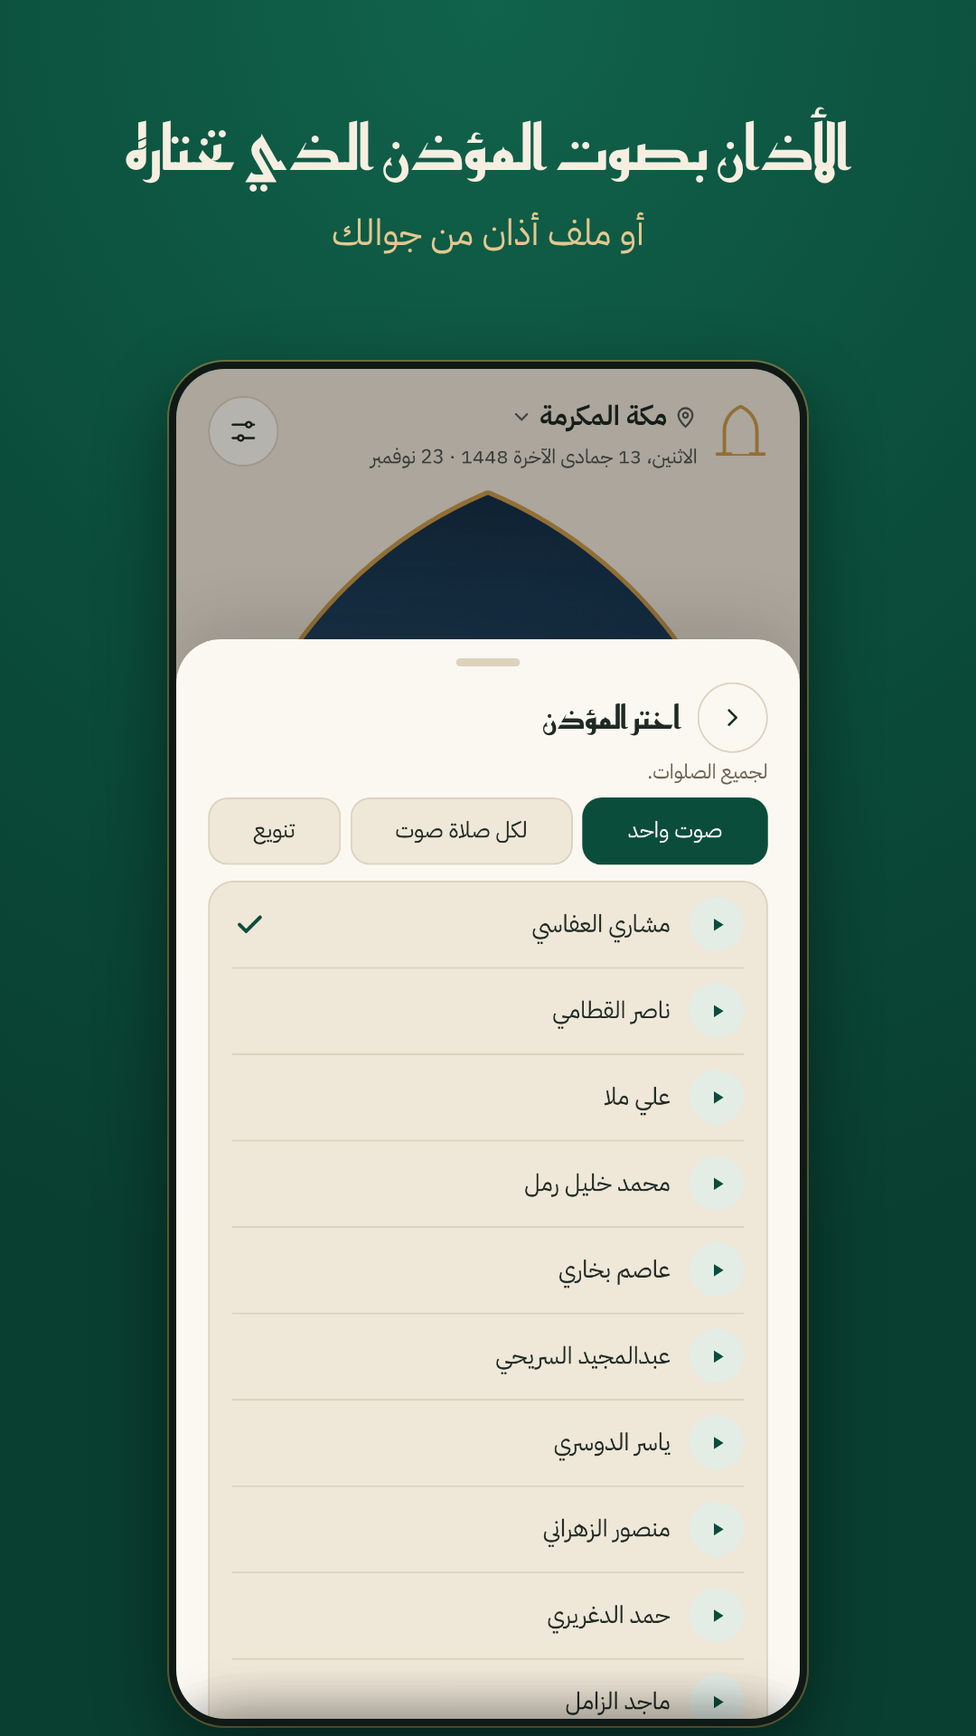
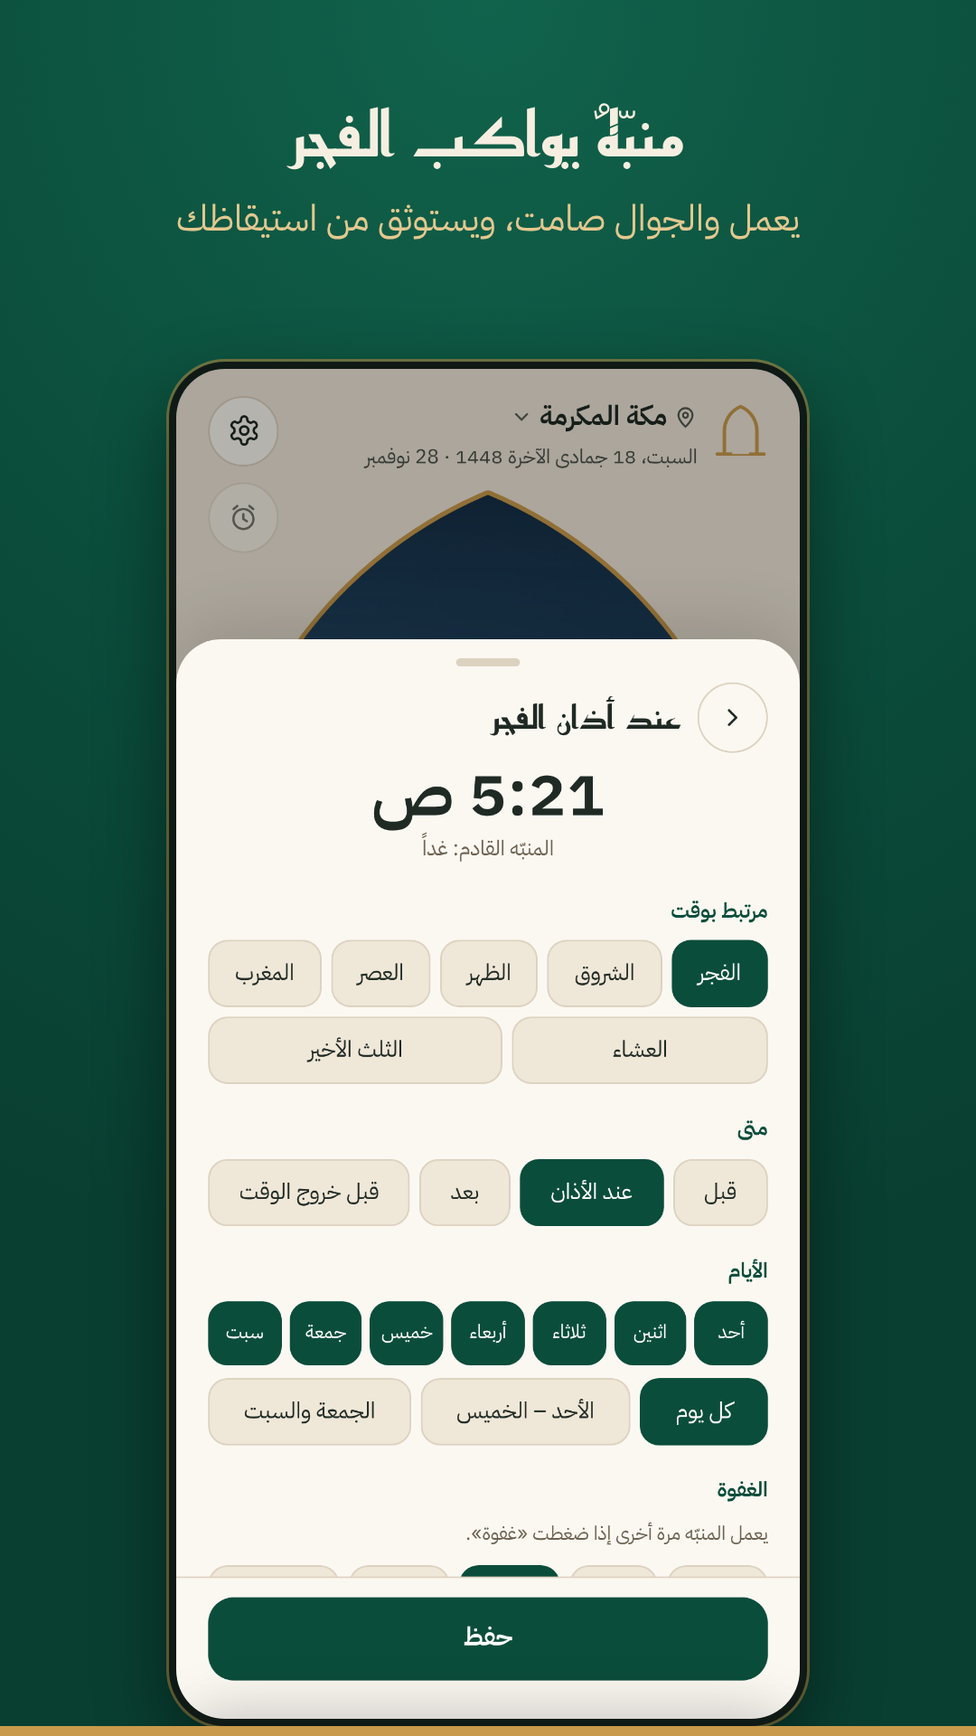
Store pictures for 1.0, and the App Store page from the API (tools/asc, asc.yml) [skip ci]

diff --git a/tools/asc/publish.py b/tools/asc/publish.py
@@ -1,0 +1,262 @@
+#!/usr/bin/env python3
+"""Fills the App Store page of «الفجر الصادق» through the App Store Connect API (run by .github/workflows/asc.yml).
+
+Texts come from texts.py, the iPhone 6.9" pictures from store/ios/iphone69-*.png. Each step stands alone: a failed step is
+reported and the rest still run. With SUBMIT=1 it also sends the version for review (App Privacy and the price are set
+on the website, since the API has no way to set App Privacy).
+"""
+import glob, hashlib, json, os, sys, time, textwrap, re, urllib.request, urllib.error
+import jwt
+
+sys.path.insert(0, os.path.dirname(os.path.abspath(__file__)))
+from texts import AR, EN, REVIEW_NOTES
+
+APP = os.environ.get('ASC_APP_ID', '6837875909')
+API = 'https://api.appstoreconnect.apple.com'
+SITE = 'https://ontime-prayer.pages.dev'
+ROOT = os.path.abspath(os.path.join(os.path.dirname(__file__), '..', '..'))
+KID, ISS = os.environ['ASC_KEY_ID'], os.environ['ASC_ISSUER_ID']
+_b = ''.join(re.findall(r'[A-Za-z0-9+/=]+', re.sub(r'-----[^-]+-----', '', os.environ['ASC_KEY_P8'])))
+KEY = '-----BEGIN PRIVATE KEY-----\n' + '\n'.join(textwrap.wrap(_b, 64)) + '\n-----END PRIVATE KEY-----\n'
+
+_tok = [None, 0]
+def tok():
+    if time.time() > _tok[1] - 60:
+        now = int(time.time())
+        _tok[0] = jwt.encode({'iss': ISS, 'iat': now, 'exp': now + 1100, 'aud': 'appstoreconnect-v1'}, KEY,
+                             algorithm='ES256', headers={'kid': KID, 'typ': 'JWT'})
+        _tok[1] = now + 1100
+    return _tok[0]
+
+class ApiError(Exception):
+    def __init__(s, code, body):
+        s.code, s.body = code, body
+        try: s.errs = json.loads(body).get('errors', [])
+        except Exception: s.errs = []
+        super().__init__(f'{code}: ' + ('; '.join(f"{e.get('code')} {e.get('detail', '')}" for e in s.errs) or body[:400]))
+
+def call(method, path, body=None):
+    url = path if path.startswith('http') else API + path
+    data = json.dumps(body).encode() if body is not None else None
+    req = urllib.request.Request(url, data=data, method=method,
+                                 headers={'Authorization': 'Bearer ' + tok(), 'Content-Type': 'application/json'})
+    try:
+        with urllib.request.urlopen(req, timeout=120) as r:
+            t = r.read()
+            return json.loads(t) if t else {}
+    except urllib.error.HTTPError as e:
+        raise ApiError(e.code, e.read().decode('utf-8', 'replace'))
+
+def rel(typ, id_): return {'data': {'type': typ, 'id': id_}}
+
+REPORT, ERRORS = [], []
+def step(name):
+    def wrap(fn):
+        def run(*a, **k):
+            try:
+                out = fn(*a, **k)
+                REPORT.append(f'✓ {name}' + (f': {out}' if out else ''))
+                print(REPORT[-1], flush=True)
+                return out
+            except Exception as e:
+                ERRORS.append(f'✗ {name}: {e}')
+                print(ERRORS[-1], flush=True)
+        return run
+    return wrap
+
+def state(a): return a.get('appVersionState') or a.get('appStoreState') or a.get('state')
+
+# ---------- the version, the app info ----------
+def version():
+    vs = call('GET', f'/v1/apps/{APP}/appStoreVersions?filter[platform]=IOS&limit=20')['data']
+    edit = [v for v in vs if state(v['attributes']) in
+            ('PREPARE_FOR_SUBMISSION', 'DEVELOPER_REJECTED', 'REJECTED', 'METADATA_REJECTED', 'INVALID_BINARY')]
+    v = (edit or vs)[0]
+    print('version', v['attributes']['versionString'], state(v['attributes']), v['id'])
+    return v
+
+def app_info():
+    infos = call('GET', f'/v1/apps/{APP}/appInfos')['data']
+    live = ('READY_FOR_DISTRIBUTION', 'READY_FOR_SALE', 'REPLACED_WITH_NEW_INFO')
+    i = next((x for x in infos if state(x['attributes']) not in live), infos[0])
+    print('appInfo', state(i['attributes']), i['id'])
+    return i
+
+@step('the version: copyright, release after approval')
+def set_version(vid):
+    call('PATCH', f'/v1/appStoreVersions/{vid}', {'data': {'type': 'appStoreVersions', 'id': vid, 'attributes': {
+        'copyright': '2026 Ibrahim Alzahrani', 'releaseType': 'AFTER_APPROVAL'}}})
+
+def put_loc(kind, parent_rel, parent_id, existing, locale, attrs):
+    """PATCH the locale's localization, or create it."""
+    cur = next((x for x in existing if x['attributes']['locale'] == locale), None)
+    if cur:
+        call('PATCH', f'/v1/{kind}/{cur["id"]}', {'data': {'type': kind, 'id': cur['id'], 'attributes': attrs}})
+        return cur['id'], 'updated'
+    parent_type = {'appInfo': 'appInfos', 'appStoreVersion': 'appStoreVersions'}[parent_rel]
+    r = call('POST', f'/v1/{kind}', {'data': {'type': kind, 'attributes': dict(attrs, locale=locale),
+                                               'relationships': {parent_rel: rel(parent_type, parent_id)}}})
+    return r['data']['id'], 'created'
+
+@step('name, subtitle, privacy link (Arabic)')
+def info_ar(iid, locs):
+    return put_loc('appInfoLocalizations', 'appInfo', iid, locs, 'ar-SA',
+                   {'name': AR['name'], 'subtitle': AR['subtitle'], 'privacyPolicyUrl': SITE + '/privacy'})[1]
+
+@step('name, subtitle, privacy link (English)')
+def info_en(iid, locs):
+    attrs = {'name': EN['name'], 'subtitle': EN['subtitle'], 'privacyPolicyUrl': SITE + '/privacy'}
+    try:
+        return put_loc('appInfoLocalizations', 'appInfo', iid, locs, 'en-US', attrs)[1]
+    except ApiError as e:
+        if 'name' not in str(e).lower(): raise
+        attrs['name'] = EN['name'] + ': Prayer Times'          # the short name is taken
+        return put_loc('appInfoLocalizations', 'appInfo', iid, locs, 'en-US', attrs)[1] + ' as ' + attrs['name']
+
+def ver_attrs(L):
+    return {'description': L['description'], 'keywords': L['keywords'], 'promotionalText': L['promo'],
+            'supportUrl': SITE, 'marketingUrl': SITE}
+
+@step('description, keywords, promotional text, links (Arabic)')
+def ver_ar(vid, locs):
+    r = put_loc('appStoreVersionLocalizations', 'appStoreVersion', vid, locs, 'ar-SA', ver_attrs(AR))
+    LOC['ar'] = r[0]
+    return r[1]
+
+@step('description, keywords, promotional text, links (English)')
+def ver_en(vid, locs):
+    r = put_loc('appStoreVersionLocalizations', 'appStoreVersion', vid, locs, 'en-US', ver_attrs(EN))
+    LOC['en'] = r[0]
+    return r[1]
+LOC = {}
+
+@step('categories: Lifestyle, Reference')
+def categories(iid):
+    call('PATCH', f'/v1/appInfos/{iid}', {'data': {'type': 'appInfos', 'id': iid, 'relationships': {
+        'primaryCategory': rel('appCategories', 'LIFESTYLE'), 'secondaryCategory': rel('appCategories', 'REFERENCE')}}})
+
+AGE = dict(
+    alcoholTobaccoOrDrugUseOrReferences='NONE', contests='NONE', gamblingSimulated='NONE', gunsOrOtherWeapons='NONE',
+    horrorOrFearThemes='NONE', matureOrSuggestiveThemes='NONE', medicalOrTreatmentInformation='NONE',
+    profanityOrCrudeHumor='NONE', sexualContentGraphicAndNudity='NONE', sexualContentOrNudity='NONE',
+    violenceCartoonOrFantasy='NONE', violenceRealistic='NONE', violenceRealisticProlongedGraphicOrSadistic='NONE',
+    advertising=False, ageAssurance=False, gambling=False, healthOrWellnessTopics=False, lootBox=False,
+    messagingAndChat=False, parentalControls=False, unrestrictedWebAccess=False, userGeneratedContent=False,
+)
+
+@step('age rating: none of the topics (4+)')
+def age(iid):
+    d = call('GET', f'/v1/appInfos/{iid}/ageRatingDeclaration')['data']
+    attrs = dict(AGE)
+    for _ in range(12):                                         # drop any field this API version doesn't know
+        try:
+            call('PATCH', f'/v1/ageRatingDeclarations/{d["id"]}',
+                 {'data': {'type': 'ageRatingDeclarations', 'id': d['id'], 'attributes': attrs}})
+            return f'{len(attrs)} answers'
+        except ApiError as e:
+            bad = [x.get('source', {}).get('pointer', '').rsplit('/', 1)[-1] for x in e.errs]
+            bad = [b for b in bad if b in attrs]
+            if not bad: raise
+            for b in bad: attrs.pop(b)
+    raise RuntimeError('age rating: too many retries')
+
+@step('review contact and notes')
+def review(vid):
+    attrs = {'contactFirstName': 'Ibrahim', 'contactLastName': 'Alzahrani', 'contactPhone': '+966549855011',
+             'contactEmail': 'itqan1.dev@gmail.com', 'demoAccountRequired': False, 'notes': REVIEW_NOTES}
+    try:
+        cur = call('GET', f'/v1/appStoreVersions/{vid}/appStoreReviewDetail').get('data')
+    except ApiError as e:
+        if e.code != 404: raise
+        cur = None
+    if cur:
+        call('PATCH', f'/v1/appStoreReviewDetails/{cur["id"]}',
+             {'data': {'type': 'appStoreReviewDetails', 'id': cur['id'], 'attributes': attrs}})
+        return 'updated'
+    call('POST', '/v1/appStoreReviewDetails', {'data': {'type': 'appStoreReviewDetails', 'attributes': attrs,
+                                                         'relationships': {'appStoreVersion': rel('appStoreVersions', vid)}}})
+    return 'created'
+
+@step('build')
+def build(vid, vstr):
+    for _ in range(40):
+        bs = call('GET', f'/v1/builds?filter[app]={APP}&filter[preReleaseVersion.version]={vstr}'
+                         f'&sort=-uploadedDate&limit=10')['data']
+        ok = [b for b in bs if b['attributes']['processingState'] == 'VALID' and not b['attributes'].get('expired')]
+        if ok:
+            b = ok[0]
+            call('PATCH', f'/v1/appStoreVersions/{vid}/relationships/build', rel('builds', b['id']))
+            return f"{vstr} ({b['attributes']['version']})"
+        if not any(b['attributes']['processingState'] == 'PROCESSING' for b in bs):
+            raise RuntimeError('no processed build of ' + vstr + ': ' +
+                               ', '.join(f"{b['attributes']['version']} {b['attributes']['processingState']}" for b in bs))
+        time.sleep(30)
+    raise RuntimeError('the build is still processing')
+
+@step('iPhone 6.9" screenshots (Arabic)')
+def screenshots(lid):
+    files = sorted(glob.glob(os.path.join(ROOT, 'store/ios/iphone69-*.png')))
+    if not files: raise RuntimeError('no store/ios/iphone69-*.png')
+    sets = call('GET', f'/v1/appStoreVersionLocalizations/{lid}/appScreenshotSets')['data']
+    s = next((x for x in sets if x['attributes']['screenshotDisplayType'] == 'APP_IPHONE_67'), None)
+    if s:
+        for old in call('GET', f'/v1/appScreenshotSets/{s["id"]}/appScreenshots')['data']:
+            call('DELETE', f'/v1/appScreenshots/{old["id"]}')
+    else:
+        s = call('POST', '/v1/appScreenshotSets', {'data': {'type': 'appScreenshotSets',
+              'attributes': {'screenshotDisplayType': 'APP_IPHONE_67'},
+              'relationships': {'appStoreVersionLocalization': rel('appStoreVersionLocalizations', lid)}}})['data']
+    ids = []
+    for f in files:
+        data = open(f, 'rb').read()
+        sh = call('POST', '/v1/appScreenshots', {'data': {'type': 'appScreenshots',
+              'attributes': {'fileName': os.path.basename(f), 'fileSize': len(data)},
+              'relationships': {'appScreenshotSet': rel('appScreenshotSets', s['id'])}}})['data']
+        for op in sh['attributes']['uploadOperations']:
+            part = data[op['offset']:op['offset'] + op['length']]
+            req = urllib.request.Request(op['url'], data=part, method=op['method'],
+                                         headers={h['name']: h['value'] for h in op.get('requestHeaders', [])})
+            urllib.request.urlopen(req, timeout=300).read()
+        call('PATCH', f'/v1/appScreenshots/{sh["id"]}', {'data': {'type': 'appScreenshots', 'id': sh['id'],
+              'attributes': {'uploaded': True, 'sourceFileChecksum': hashlib.md5(data).hexdigest()}}})
+        ids.append(sh['id'])
+    for _ in range(40):
+        st = [call('GET', f'/v1/appScreenshots/{i}')['data']['attributes'].get('assetDeliveryState') or {} for i in ids]
+        bad = [x for x in st if x.get('state') == 'FAILED']
+        if bad: raise RuntimeError('a picture failed: ' + json.dumps(bad[0].get('errors'))[:300])
+        if all(x.get('state') == 'COMPLETE' for x in st): return f'{len(ids)} pictures'
+        time.sleep(10)
+    return f'{len(ids)} pictures uploaded, still processing'
+
+@step('submitted for review')
+def submit(vid):
+    subs = call('GET', f'/v1/reviewSubmissions?filter[app]={APP}&filter[platform]=IOS'
+                       '&filter[state]=READY_FOR_REVIEW,UNRESOLVED_ISSUES')['data']
+    sub = subs[0] if subs else call('POST', '/v1/reviewSubmissions', {'data': {'type': 'reviewSubmissions',
+          'attributes': {'platform': 'IOS'}, 'relationships': {'app': rel('apps', APP)}}})['data']
+    try:
+        call('POST', '/v1/reviewSubmissionItems', {'data': {'type': 'reviewSubmissionItems', 'relationships': {
+            'reviewSubmission': rel('reviewSubmissions', sub['id']), 'appStoreVersion': rel('appStoreVersions', vid)}}})
+    except ApiError as e:
+        if e.code != 409: raise
+        print('item already there:', e)
+    call('PATCH', f'/v1/reviewSubmissions/{sub["id"]}',
+         {'data': {'type': 'reviewSubmissions', 'id': sub['id'], 'attributes': {'submitted': True}}})
+
+def main():
+    v = version(); vid, vstr = v['id'], v['attributes']['versionString']
+    i = app_info(); iid = i['id']
+    set_version(vid)
+    ilocs = call('GET', f'/v1/appInfos/{iid}/appInfoLocalizations')['data']
+    info_ar(iid, ilocs); info_en(iid, ilocs)
+    vlocs = call('GET', f'/v1/appStoreVersions/{vid}/appStoreVersionLocalizations')['data']
+    ver_ar(vid, vlocs); ver_en(vid, vlocs)
+    categories(iid); age(iid); review(vid)
+    if LOC.get('ar'): screenshots(LOC['ar'])
+    build(vid, vstr)
+    if os.environ.get('SUBMIT') == '1' and not ERRORS: submit(vid)
+    print('\n==== summary ====\n' + '\n'.join(REPORT + ERRORS))
+    sys.exit(1 if ERRORS else 0)
+
+if __name__ == '__main__':
+    main()

diff --git a/tools/asc/texts.py b/tools/asc/texts.py
@@ -1,0 +1,92 @@
+# The App Store texts (asc.py), Arabic first.
+AR = dict(
+    name='الفجر الصادق',
+    subtitle='صلاتك على وقتها',
+    promo='مواقيت أم القرى دقيقةً بدقيقة، وتذكيرٌ قبل خروج الوقت، ومنبّهٌ يواكب الفجر، وسماءٌ حيّة، وويدجت تُخصّصها كما تشاء. بلا إعلانات.',
+    keywords='اذان,أذان,مواقيت,اوقات الصلاة,ام القرى,هجري,مؤذن,اقامة,رمضان,منبه الفجر,ويدجت,صلاة,قبلة',
+    description='''«الفجر الصادق» يعرض مواقيت الصلاة وفق تقويم أم القرى، مطابقةً لموقعه الرسمي دقيقةً بدقيقة، ويحسبها على جوالك دون اتصال بالإنترنت.
+
+مطابقٌ لأمّ القرى
+• مواقيت مدن المملكة من تقويم أم القرى، أو موقعك بإحداثياته.
+• التاريخ الهجري والميلادي، وجدول الشهر كاملاً.
+• تذكير بصيام الاثنين والخميس والأيام البيض وعرفة وعاشوراء، ومواقيت السحور والإفطار في رمضان.
+
+تُدرك الوقت قبل خروجه
+• نهاية وقت كل صلاة، ووقت الضرورة للعصر والعشاء.
+• تذكير قبل خروج الوقت بالمدة التي تختارها، من إشعار الأذان نفسه أو من الإعدادات.
+
+الأذان والتنبيهات
+• أكثر من عشرة مؤذنين، ولكل صلاة مؤذنها إن أردت، أو التكبيرات فقط، أو إشعار صامت.
+• تذكير قبل الأذان، وتنبيه الإقامة، وكتم الجوال بعد الإقامة مدةً تختارها.
+• أزرار في الإشعار: «صلّيت» و«ذكّرني بعد» و«ذكّرني قبل خروج الوقت».
+
+منبّهٌ يواكب الفجر
+• منبّهات مربوطة بالصلاة: «قبل الفجر بعشرين دقيقة» أو «قبل خروج الوقت» أو «الثلث الأخير من الليل»، يتبدّل موعدها كل يوم مع المواقيت.
+• تعمل كمنبّه الآيفون نفسه، حتى والجوال صامت، مع الغفوة والأيام التي تختارها.
+• «تأكّد أني استيقظت»: يسألك بعد دقائق، ويعمل مرة أخرى إن لم تؤكد.
+
+سماءٌ حيّة
+• الشمس والقمر والنجوم في منازلها الحقيقية لحظةً بلحظة، واسحب على السماء لتتنقل في يومك.
+• عدٌّ تنازلي بالثواني للصلاة القادمة، والوقت المنقضي من الأذان أو المتبقي للإقامة.
+
+طوعُ اختيارك
+• تسعة عشر تصميماً للويدجت على الشاشة الرئيسية، تُخصّص خطّها وألوانها وما تعرضه.
+• تسعة تصاميم لشاشة القفل، منها قمر الليلة والثلث الأخير والصلوات الخمس.
+• «صلواتي اليوم» و«بأزرار»: سجّل صلاتك أو اكتم الأذان القادم من الويدجت نفسها.
+• عدّ الصلاة القادمة على شاشة القفل وفي الجزيرة الديناميكية.
+• خمسة أشكال لشاشة التطبيق، والوضع الفاتح والداكن، والعربية والإنجليزية.
+
+بلا إعلانات
+لا يجمع التطبيق أي بيانات، ولا يحتوي على إعلانات أو تتبع أو حسابات. موقعك اختياري ويبقى على جوالك.
+
+قال ابن مسعود رضي الله عنه: سألتُ النبيَّ ﷺ: أيُّ العملِ أحبُّ إلى الله؟ قال: «الصلاةُ على وقتِها». متفق عليه.''')
+
+EN = dict(
+    name='True Fajr',
+    subtitle='Your prayer, on time',
+    promo='Umm al-Qura times to the minute, a reminder before each time ends, an alarm that keeps pace with Fajr, a living sky, and widgets you shape your way. No ads.',
+    keywords='adhan,azan,prayer times,umm al-qura,salah,hijri,muezzin,iqama,ramadan,fajr alarm,widget,muslim',
+    description='''True Fajr shows prayer times from the Umm al-Qura calendar, matching its official site minute for minute, and works them out on your phone with no internet.
+
+True to Umm al-Qura
+• Times for the cities of Saudi Arabia from the Umm al-Qura calendar, or for your own coordinates.
+• Hijri and Gregorian dates, and the whole month as a table.
+• Fasting reminders for Mondays and Thursdays, the White Days, Arafah and Ashura, and suhoor and iftar times in Ramadan.
+
+Catch the time before it ends
+• When each prayer's time ends, with the necessity time for Asr and Isha.
+• A reminder before the time ends, as early as you choose, from the adhan notification or the settings.
+
+Adhan and alerts
+• More than ten muezzins, a different one per prayer if you like, takbir only, or a silent notification.
+• A reminder before the adhan, an iqama alert, and muting the phone after the iqama for as long as you choose.
+• Buttons on the notification: “I prayed”, “Remind me in…” and “Remind me before it ends”.
+
+An alarm that keeps pace with Fajr
+• Alarms tied to a prayer: “20 min before Fajr”, “before the time ends” or “the last third of the night”, their time moving with the prayer times every day.
+• They work like the iPhone's own alarm, even on silent, with snooze and the days you pick.
+• “Make sure I'm awake”: it asks a few minutes later and goes off again unless you confirm.
+
+A living sky
+• The sun, moon and stars in their true places, moment by moment; swipe across the sky to move through your day.
+• A countdown to the second for the next prayer, and the time since the adhan or left to the iqama.
+
+Yours to shape
+• Nineteen Home Screen widget designs whose font, colours and contents you choose.
+• Nine Lock Screen designs, including tonight's moon, the last third of the night and the five prayers.
+• “My prayers today” and “With buttons”: mark a prayer or mute the next adhan right from the widget.
+• The next prayer counting down on the Lock Screen and in the Dynamic Island.
+• Five designs for the app screen, light and dark, Arabic and English.
+
+No ads
+The app collects no data and has no ads, tracking or accounts. Location is optional and stays on your phone.''')
+
+REVIEW_NOTES = '''True Fajr (الفجر الصادق) shows the Umm al-Qura prayer times (Saudi Arabia's official calendar), computed on the device. No account, no login, no server: the app makes no network requests.
+
+Background audio: the adhan (call to prayer) the user chose plays in full when its notification is opened, and keeps playing if the screen locks; it stops with the Stop button.
+
+AlarmKit: users create alarms tied to prayer times (for example "20 minutes before Fajr"); they ring like the Clock app's alarms, even on silent. To try: tap the alarm icon at the top left, add an alarm, and use "Try the alarm now".
+
+Location is optional, used only on the device to pick the nearest city; the city can be chosen from a list instead.
+
+Widgets: Settings (gear) → Widgets shows the designs; "With buttons" and "My prayers today" have buttons that work inside the widget.'''
